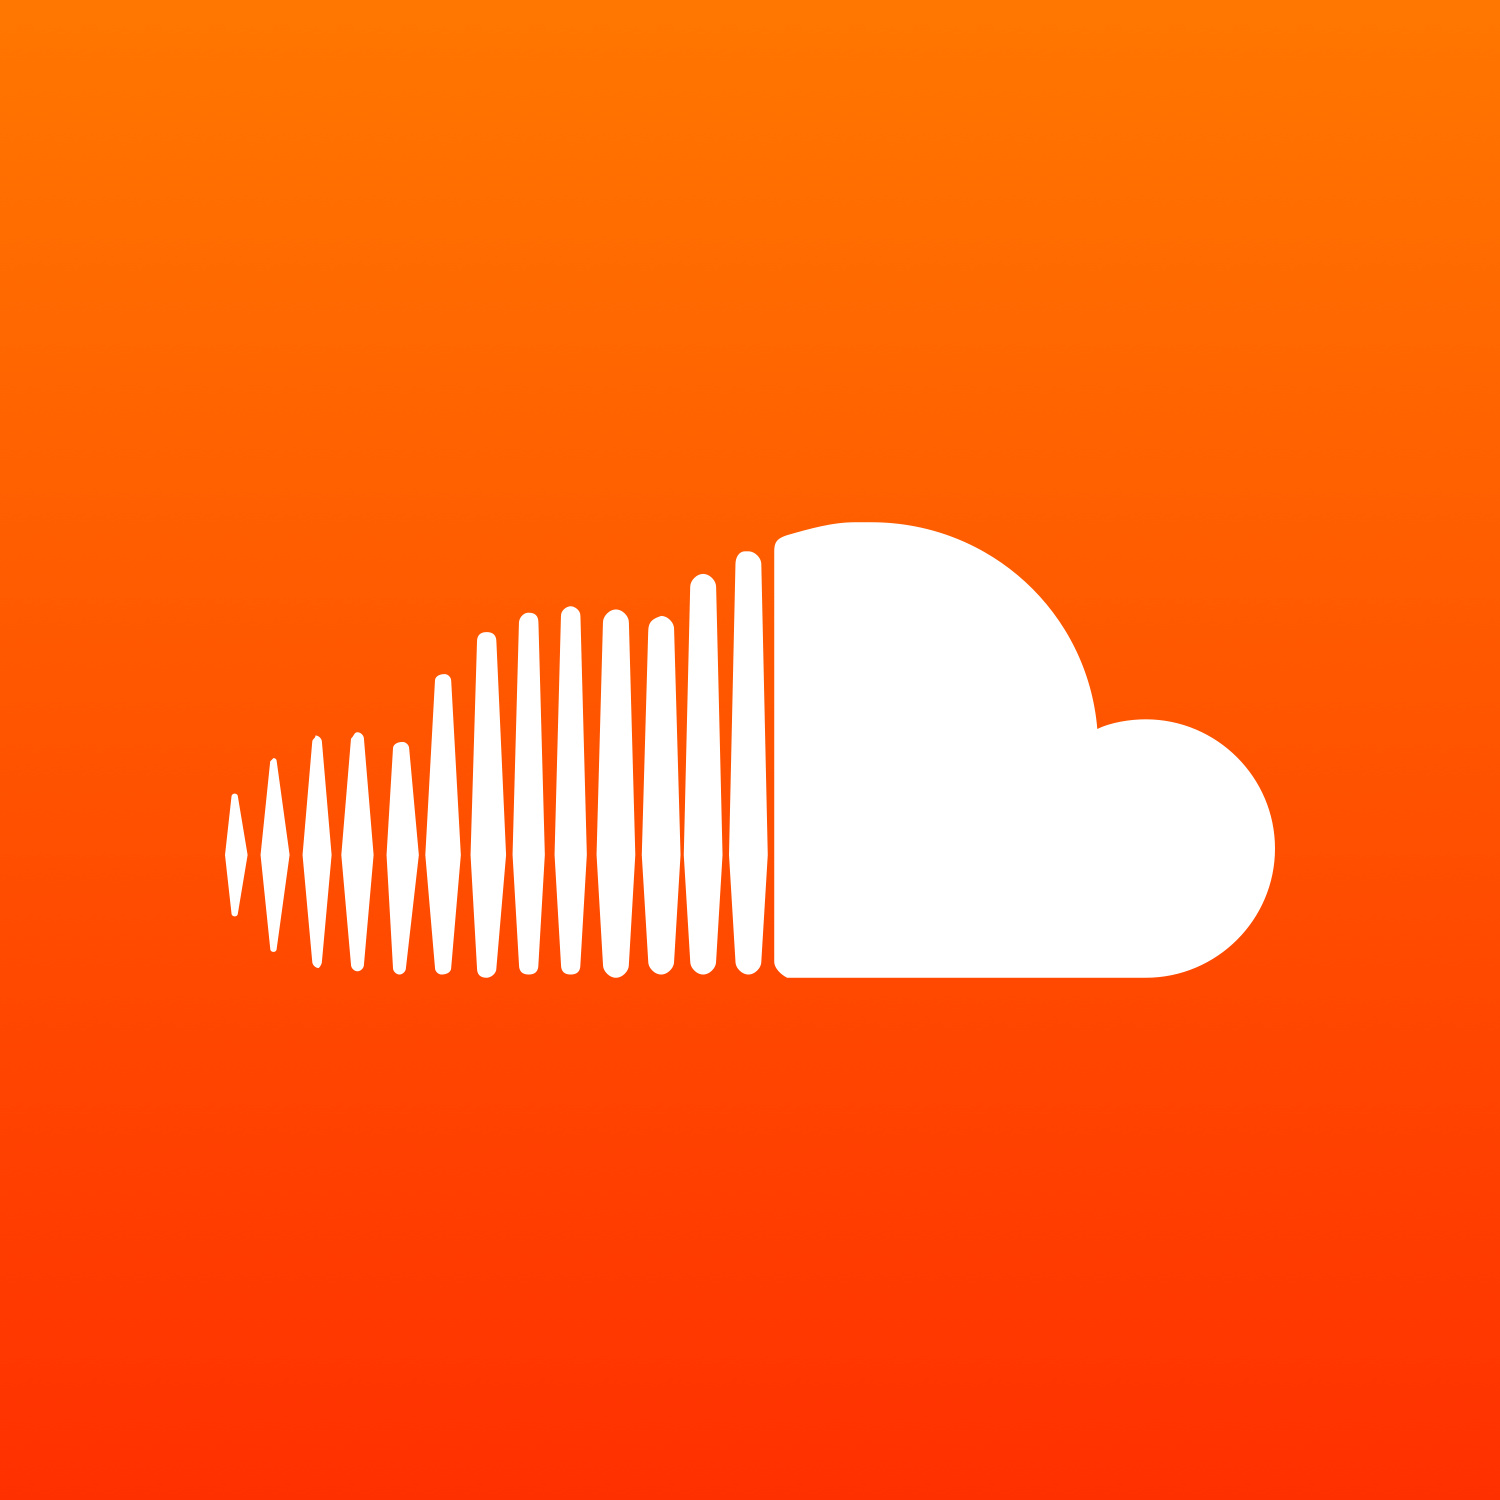
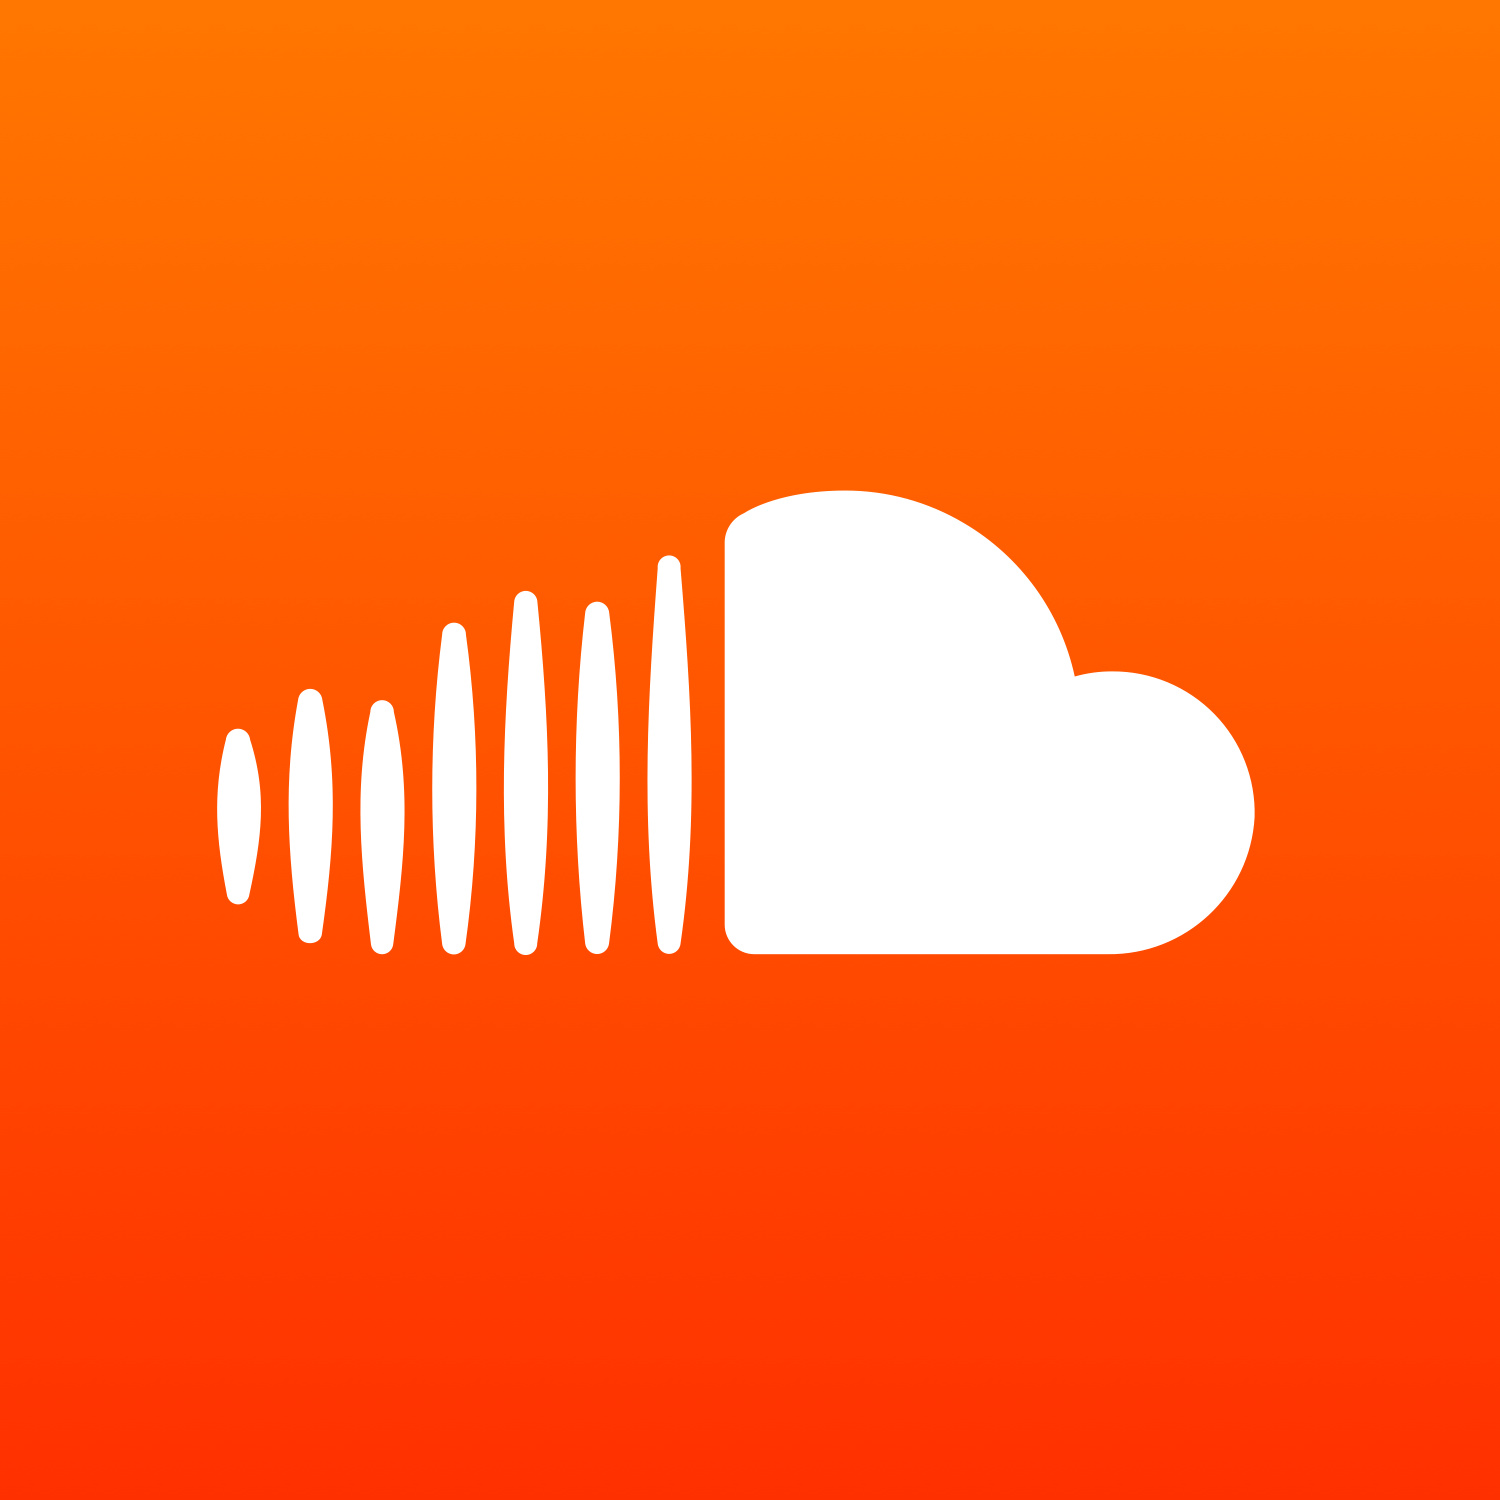
SoundCloud fallback artwork: the current 7-bar cloud
The 14-bar Wikimedia cloud is SoundCloud's older logo. This is the vector
from soundcloud.com's own web app, white at 69% of the width and a little
above center on the same gradient, 1500x1500, square. Same path.

Changed region(s): [[0.1227, 0.3067, 0.8587, 0.6747], [0.7053, 0.4293, 0.828, 0.5213]]

diff --git a/README.md b/README.md
@@ -98,9 +98,9 @@ When the uploader has none either (SoundCloud's grey default avatar), or nothing
 gets the SoundCloud logo instead: `public/artwork/soundcloud.jpg`, served from
 `/artwork/soundcloud.jpg` with no token, since Sonos and the hubs fetch artwork without one.
 It's 1500×1500, square on purpose (the Canopy Music clients round artwork themselves),
-rendered from `public/artwork/soundcloud.svg`: the cloud from
-[Wikimedia Commons' SoundCloud logo](https://upload.wikimedia.org/wikipedia/commons/7/78/Soundcloud_logo.svg),
-white, 70% of the width, centered on a gradient from #FF7700 to #FF3000. Only the JPEG is
+rendered from `public/artwork/soundcloud.svg`: SoundCloud's current 7-bar cloud, the vector
+from soundcloud.com's own web app (its media kit only has small WebPs), in white at 69% of
+the width, a little above center, on a gradient from #FF7700 to #FF3000. Only the JPEG is
 served.
 The other sites have no fallback image yet.
 
